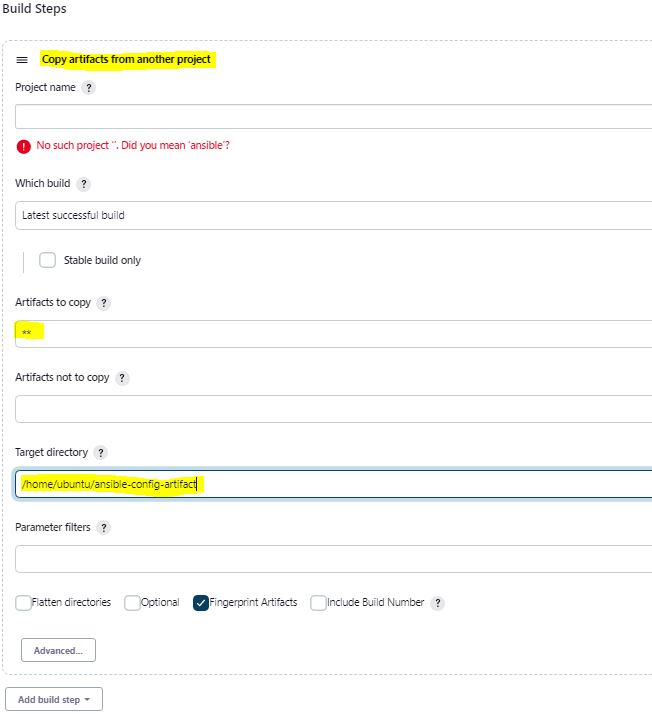
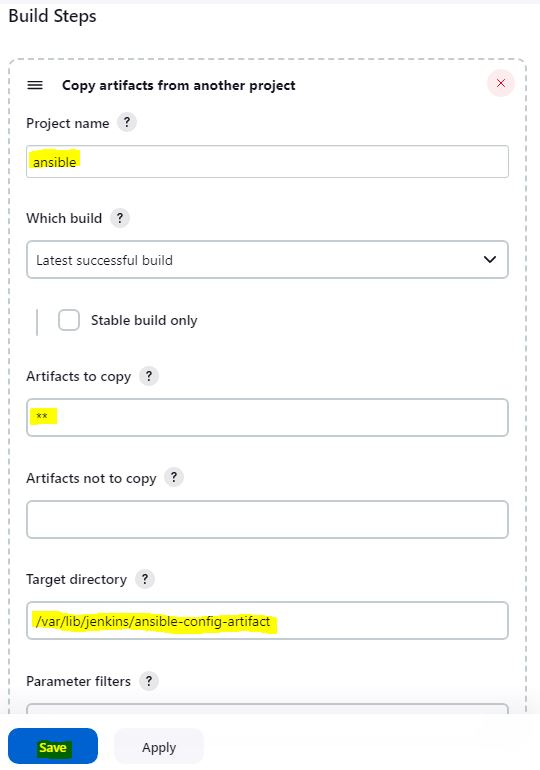
save_artifactUpdate

diff --git a/project12.md b/project12.md
@@ -15,11 +15,11 @@ In this project, we will move things around a little bit in the code, but the ov
 **STEP 1 - JENKINS JOB ENHANCEMENT**
 Every new change in the code create a separate directory which is not very convenient when we want to run some commands from one place. Also, it consumes space on `Jenkins` server with each subsequent change. Let us enhance it by introducing a new Jenkins project/job – we will require **Copy Artifact** plugin.
 
-1. ssh to `Jenkins-Ansible` server and create a new directory called `ansible-config-artifact` – this is where all the artifacts will be stored after each build. Change permissions to this directory, so Jenkins could save files there.
+1. ssh to `Jenkins-Ansible` server, cd to the path `/var/lib/jenkins`. Switch account to jenkins user and create a new directory called `ansible-config-artifact` – this is where all the artifacts will be stored after each build.
 
-   - `sudo mkdir /home/ubuntu/ansible-config-artifact`
-
-   - `chmod -R 0777 /home/ubuntu/ansible-config-artifact`
+   - `cd /var/lib/jenkins`
+   - `sudo su jenkins`
+   - `mkdir ansible-config-artifact`
 
      ![Pic1](./project12Pictures/step1_p12.JPG)
 
@@ -39,7 +39,7 @@ Every new change in the code create a separate directory which is not very conve
 
 4. The main idea of `save_artifacts` project is to save artifacts into `/home/ubuntu/ansible-config-artifact` directory. To achieve this, create a `Build` step and choose **Copy artifacts from other project**, specify ansible as a source project and /home/ubuntu/ansible-config-artifact as a target directory. Configure it accordingly:
 
-   - In the **Build Steps** section, select **Copy artifacts from other project**. Under **Artifacts to copy** type `**` and on **Target Directory** type the path `/home/ubuntu/ansible-config-artifact` and then click **Save**.
+   - In the **Build Steps** section, select **Copy artifacts from other project**. Under **Artifacts to copy** type `**` and on **Target Directory** type the path `/var/lib/jenkins/ansible-config-artifact` and then click **Save**.
 
      ![Pic5](./project12Pictures/step5_p12.JPG)
 
@@ -47,7 +47,7 @@ Every new change in the code create a separate directory which is not very conve
 
    ![Pic6](./project12Pictures/step6_p12.JPG)
 
-6. If both Jenkins jobs have completed one after another – you shall see your files inside `/home/ubuntu/ansible-config-artifact` directory and it will be updated with every commit to your `main` branch.
+6. If both Jenkins jobs have completed one after another – you shall see your files inside `/var/lib/jenkins/ansible-config-artifact` directory and it will be updated with every commit to your `main` branch.
 
    ![Pic7](./project12Pictures/step7_p12.JPG)
 
